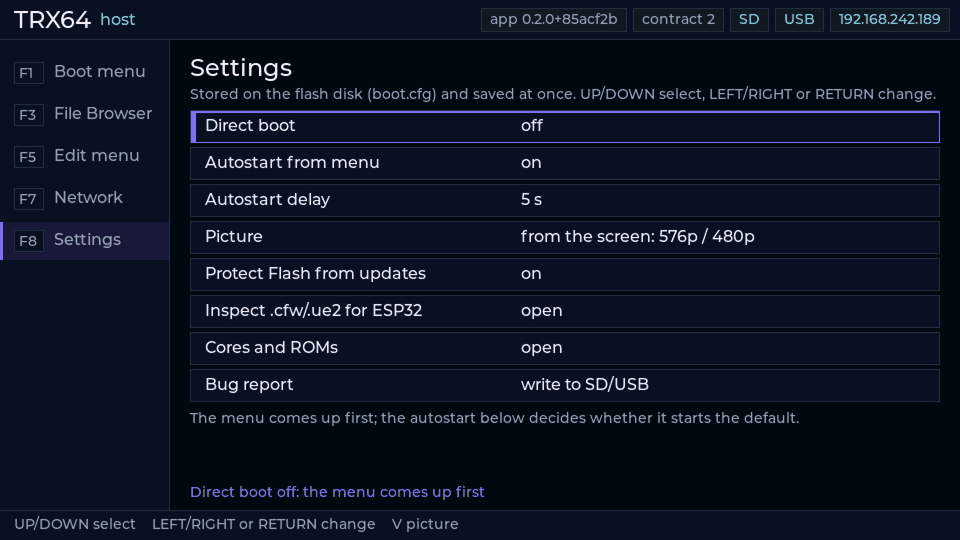
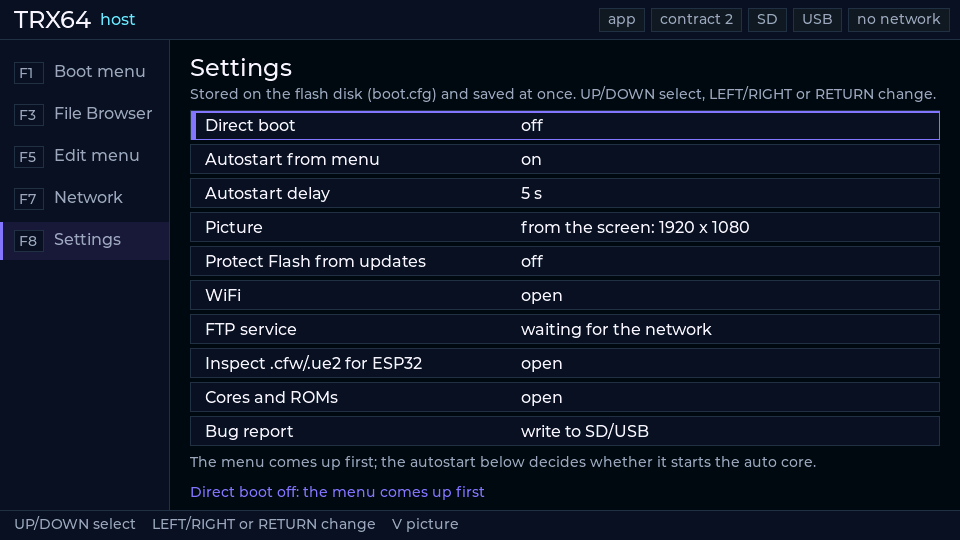
T121: manual pictures of chapters 4-9 renewed from ue2emu (update, restore, package, format, cores, compact, zip, config overlay, WiFi, picture page); captions and format page text follow the code

diff --git a/docs/manual/05-file-browser.md b/docs/manual/05-file-browser.md
@@ -191,7 +191,7 @@ as in 4.5. A `.cfw` or `.ue2` asks `Start full firmware?` first. A refused file 
 
 ![The target pick for a copy: the path line reads Copy to, the footer lists the keys of the pick](img/host-copy-pick.png)
 
-*Figure 5-4. Target pick for a copy (picture pending: shows the older footer).*
+*Figure 5-4. Target pick for a copy. The path line reads `Copy to: /USB0/firmware`. The footer does not list **RIGHT**, which also opens a folder.*
 
 5.6.4 The host writes the data to `<name>.part`, reads it back, compares the SHA-256 of both files, and renames the file.
 The note line shows `Copying <name>: <n>%    ESC cancels` and then `Reading back <name>: <n>%    ESC cancels`. A move to the same medium renames the file. A move to
@@ -246,16 +246,18 @@ than 2 TiB, or without 512-byte sectors. The note reads `cannot format <name>: <
 5.8.3 To format a medium:
 
 1. Go to the first level (path `/`). Select the medium.
-2. Press **F**. The red page `Format <name> as exFAT?` shows the size, the file system, the number of boot menu rows on the medium
-   and the result: `one exFAT partition from 4 MiB to the end`.
-3. Type the name of the medium as the list shows it (for example `USB0`). Letter case does not matter.
-4. Press **RETURN**. A wrong name shows `That is not the name of the medium. Nothing was written.`
-5. The page shows `The name is right. This is the last question.` Press **RETURN** again within 10 s. The second **RETURN**
+2. Press **F**. The red page `Format <name> as exFAT?` shows `ALL DATA ON <name> WILL BE ERASED.`, the size and the file system (`256.0 MiB  -  FAT32  'STICK'`), the number of boot menu rows on the medium
+   (`no boot menu row lives here`, or `<n> boot menu row(s) live(s) here; they show 'missing' until their files are copied back.`)
+   and the result: `Result: one exFAT partition from 4 MiB to the end. Files of 4 GiB and more fit.` It adds `Until the first write you can leave with ESC, and nothing has changed.` and
+   `To go on, type the name of the medium (<name>) and press RETURN:`.
+3. Type the name of the medium as the list shows it (for example `USB0`). Letter case does not matter. **BACKSPACE** deletes a character.
+4. Press **RETURN**. A wrong name shows `That is not the name of the medium. Nothing was written.`, an empty line `Type the name of the medium first.`
+5. The page shows `The name is right. This is the last question.` and `Press RETURN once more within <n> s to erase <name>.` (10 s). The second **RETURN**
    counts only 1 s after the first.
 
 ![The format question: the page asks to type the name of the medium; a wrong name is refused](img/host-format-ask.png)
 
-*Figure 5-5. Format, first question (picture pending: not renewed).*
+*Figure 5-5. Format, first question. The page asks to type the name of the medium; the cursor stands in the field.*
 
 ![The last format question: RETURN once more within 10 seconds erases the medium](img/host-format-armed.png)
 
@@ -265,11 +267,13 @@ than 2 TiB, or without 512-byte sectors. The note reads `cannot format <name>: <
 while you type, when you press no key for 60 s, or when you remove the medium. The note reads
 `format of <name> cancelled, nothing was written`.
 
-5.8.5 The page shows the progress (steps, bytes written) and `Do not remove the medium.` **ESC** or **RUN/STOP** cancels until the partition
+5.8.5 The page `Formatting <name>` shows the step (`Releasing the old volume`, `Clearing the old partition table`, `Writing the exFAT structures`, `Writing the partition table`, `Flushing the medium`, `Reading it back, mounting it`) with its percent and the bytes written, and `Do not remove the medium.` **ESC** or **RUN/STOP** cancels until the partition
 table is written. Then the medium is blank. When the table is written, the format cannot be stopped.
 
-5.8.6 The result page shows `<name> is formatted` with the size, the file system and the free space, or the reason for a
-refusal or failure. Press any key to return.
+5.8.6 The result page `<name> is formatted` shows the size and the file system, `The host has mounted it: <size> free, no files yet.` and the boot menu rows:
+`Boot menu: no row points here.` or `Boot menu: <n> row(s) point(s) here, 0 found. Copy the cores back and they turn ready.` A refusal or a failure shows the page `<name> was not formatted`, `Format of <name> cancelled` or `Format of <name> failed`, the reason and
+what is left: `Nothing was written. The medium is as it was.`, `The medium is blank now: no partition table, no volume.` (with `Press F in the File Browser to format it again.`) or
+`The format was written but could not be checked. Take the medium out and put it in again.` Press any key to return.
 
 5.8.7 The cluster size follows the size of the medium: 4 KiB up to 256 MiB, 32 KiB up to 32 GiB, 128 KiB above.
 
@@ -291,5 +295,9 @@ refusal or failure. Press any key to return.
 | **H** | Unpack here, next to the `.zip` |
 | **O** | Extract one file of the archive (a list: **UP**, **DOWN**, **RETURN**, **ESC**) |
 | Any other key | Cancel. The note reads `Not unpacked. Nothing was changed.` |
+
+![The page Unzip demo.zip: F, H and O, any other key cancels](img/host-unzip-page.png)
+
+*Figure 5-7. Z on `demo.zip`. The footer reads `F, H or O    any other key cancels`.*
 
 5.10.3 A bar shows `unpacking    no key stops it`. The page `Unzipped` shows the result. A failure shows `Unzip did not finish`, `Files unpacked so far are in the folder. The .zip is untouched.` Without the application the page `Cannot unzip <file>` says `Unzip is not installed.` and `Nothing was unpacked.`

diff --git a/docs/manual/08-settings.md b/docs/manual/08-settings.md
@@ -18,9 +18,9 @@ The host applies every change at once. The note line shows the result.
 | **LEFT**, **RIGHT**, **RETURN**, **SPACE** | Change the value. On the rows `WiFi`, `Inspect .cfw/.ue2 for ESP32`, `Cores and ROMs` and `Bug report` only **RIGHT**, **RETURN** and **SPACE** act. On `Picture` only **RETURN** acts: it opens the Picture page |
 | **V** | Open the Picture page (4.4.3) |
 
-![The Settings page with direct boot on: six rows, the help text of the selected row at the bottom](img/host-settings.png)
+![The Settings page with direct boot on: eight rows, the help text of the selected row at the bottom](img/host-settings.png)
 
-*Figure 8-1. F8 Settings with direct boot on.*
+*Figure 8-1. F8 Settings with direct boot on. The row `Protect Flash from updates` exists only in a build with the flash lock.*
 
 8.1.5 Rows:
 
@@ -37,7 +37,7 @@ The host applies every change at once. The note line shows the result.
 | `Cores and ROMs` | `open` | none | 8.7 |
 | `Bug report` | `write to SD/USB`, or the name of the last report file | none | 8.8 |
 
-8.1.6 The host stores the settings of 8.2 and 8.3 in `Flash:/boot.cfg` (8.9). It stores `Picture` (8.4) and `Protect Flash from updates` in its own
+8.1.6 The host stores the settings of 8.2 and 8.3 in `Flash:/boot.cfg` (8.9). It stores `Picture` (8.4), `Protect Flash from updates` and `FTP service` in its own
 settings store, `Flash:/trx/host.cfg`, not in `boot.cfg`.
 
 ![The Settings page with direct boot off: the two autostart rows show](img/host-settings-autostart.png)
@@ -85,6 +85,10 @@ possible modes are, in this order:
 | 5 | `1280 x 1024` |
 
 8.4.3 **RETURN** on the row `Picture` (or **V**) opens the page `Settings > Picture`. The first row is `Auto (<mode> from the screen)`: the host selects the best mode of the screen: `1920 x 1080`, else `1280 x 720`, else `576p / 480p`, else a PC mode (`1024 x 768` first). The other rows are the modes that the screen names, each with its refresh rate (`50.1 Hz`) and the tags `now` (the mode that is chosen) and `native`. The line under the title reads `Your screen offers <n> modes. Nothing changes until you pick one.` **UP**, **DOWN** select and apply nothing. **RETURN** uses the mode under the cursor and asks as in 8.4.8. **LEFT** or **ESC** closes the page. The row `Picture` shows the mode, or `from the screen: <mode>`.
+
+![The Picture page: Auto and three modes, 50.1 Hz, the tag now on Auto](img/host-picture-page.png)
+
+*Figure 8-2a. Settings > Picture (the same page opens with V from every view).*
 
 8.4.4 There is no choice of 50 Hz or 60 Hz. The host uses 50 Hz modes (PAL). Only when the screen names no 50 Hz mode does the host use
 the 60 Hz modes of the screen, without a message. A host that started with a `video=` line in `boot.cfg` keeps the system of that
@@ -147,7 +151,7 @@ status registers, and the firmware starts without protection.
 
 ![The result of the inspection of a firmware file without an ESP32 part](img/host-inspect-result.png)
 
-*Figure 8-3. Result for a file without an ESP32 part (the file is `plain.cfw`).*
+*Figure 8-3. Result for a file without an ESP32 part (the file is `plain.cfw`). The page is titled `ESP32 in <file>`.*
 
 8.6.3 Results:
 
@@ -179,7 +183,7 @@ there twice. It deletes the files that belong to no core.
 
 ![The page Cores and ROMs: one line per core with its ROMs and saves, then the files that belong to no core, then the doubles](img/host-cores-page.png)
 
-*Figure 8-4. Cores and ROMs. The folder `ghost` holds a save and stays. `junk.txt` belongs to no core. `/SD/roms/atari800/atarixl.rom` is an old copy of a file that a core folder holds.*
+*Figure 8-4. Cores and ROMs. The folder `ghost` holds a save and stays. `junk.txt` and `old-notes.txt` belong to no core. `/USB0/cores/roms/kernal.bin` is an old copy of a file that the folder of `vc20.cor` holds.*
 
 8.7.3 The list has up to three blocks:
 
@@ -208,9 +212,9 @@ them only when a core folder holds a copy with the same bytes (12.2.3).
 2. Press **Y**. The page asks `Really delete <n> entries? This cannot be undone. Press Y once more; any other key is No.`
 3. Press **Y**.
 
-![The first question of the delete: the three entries that go are listed, Y continues](img/host-cores-delete.png)
+![The first question of the delete: the entries that go are listed, Y continues](img/host-cores-delete.png)
 
-*Figure 8-5. First question of the delete.*
+*Figure 8-5. First question of the delete: `junk.txt`, `old-notes.txt` and the old copy `kernal.bin` go.*
 
 8.7.7 Any other key at a question cancels (`Cancelled. Nothing was deleted.`). After the delete the note reads `Deleted <n> entries
 (<size>)`, with `, some could not be deleted` when a delete failed.
@@ -249,3 +253,7 @@ it copies the system and the mode to `[Video]` in `Flash:/trx/host.cfg` and writ
 ## 8.10 WiFi
 
 8.10.1 **RETURN** on the row `WiFi` opens the WiFi page. It shows `State`, `Connected to`, `IP address` and the rows `WiFi` (radio), `Use DHCP`, `Static IP`, `Static Netmask`, `Static Gateway` and `Static DNS` (the static rows count with DHCP off). Keys: **UP**, **DOWN** select, **LEFT**, **RIGHT**, **RETURN**, **SPACE** change a row, **S** list of access points, **M** enter an access point, **L** connect to the last access point, **D** disconnect, **F** **F** forget the stored access points, **ESC** back.
+
+![The WiFi page: State, Connected to, IP address, then the radio, DHCP and the static addresses; the footer lists the keys](img/host-wifi-page.png)
+
+*Figure 8-6. F8 WiFi. The radio is on, DHCP is on, the board has no link yet.*

diff --git a/docs/manual/09-update-restore-package.md b/docs/manual/09-update-restore-package.md
@@ -97,9 +97,9 @@ file says which. The host compares each part with the flash and writes only the 
 | Not written again | `Not written again, the flash holds it already: <part>.` Only when the file holds a host and a host application and one of them is the same as in the flash |
 | Flash chip | `Flash chip: <chip>. Nothing has been written yet.` |
 
-![Question 1 of an update of the host and the host app: red frame, version, the effect on the cores, the flash chip](img/host-update-ask1.png)
+![Question 1 of an update of the host app: red frame, version, the effect on the cores, the flash chip](img/host-update-ask1.png)
 
-*Figure 9-3. Question 1 of an update of the host and the host app. The page names the effect on the cores. The footer holds the keys of the page.*
+*Figure 9-3. Question 1 of an update of the host app. The page names the effect on the cores. The footer holds the keys of the page.* The pictures of the update and the restore were made in the emulator: its flash chip shows as `Infineon S25FL128L`, a board shows `Winbond W25Q128`.
 
 ![Question 2 of the update: Last question, the erase sentence, no key stops the write, the footer counts the seconds](img/host-update-ask2.png)
 
@@ -116,9 +116,9 @@ file says which. The host compares each part with the flash and writes only the 
 | `the update file does not come from TRX` | The file has another origin |
 | `The app in this package needs host interface <n>; the running host provides <m>.` (and similar) | The host application and the host do not fit. The page adds `This package does not fit the host it would run on.` and `Use the update that matches this system.` |
 
-![Refusal of an update that does not fit: amber frame, the reason, Nothing was written](img/host-update-refuse.png)
+![Refusal of an update file that is cut: amber frame, the reason, Nothing was written](img/host-update-refuse.png)
 
-*Figure 9-5. Refusal of a package with a wrong host interface.*
+*Figure 9-5. Refusal of an update file that is cut off (`cut.txu`): `The update file is damaged or incomplete.` A package with a wrong host interface shows the amber page the same way (9.3.4).*
 
 9.3.5 The lines of question 1 for the cores:
 
@@ -133,16 +133,16 @@ file says which. The host compares each part with the flash and writes only the 
 9.3.6 The write page shows the phases (`Check the file`, `Write the host app`, `Write the host`, `Read back and compare`) with `done` for those that are over (`...` for the one that runs), the step as a line below (`Erasing sector <n> of <m>`, `Programming sector <n> of <m>`) and one
 bar with its percent. The title is `Updating <what>`. The footer reads `No key stops this    do not switch the power off`.
 
-![The write page of an update: the phases, the sector that is programmed, 43 %](img/host-update-progress.png)
+![The write page of an update: the phases, the sector that is programmed, 37 %](img/host-update-progress.png)
 
-*Figure 9-5a. The write page. The host app is written; the host is being programmed.*
+*Figure 9-5a. The write page. The host app is written (sector 198 of 265); the host is `not needed, unchanged`.*
 
 9.3.7 The result page `Update written` shows `Written and verified: <part>.`, then, when it applies, `Not written again, the flash held it already: <part>.` and (only when the host key changes) the effect on the cores: `<n> partial core(s) need(s) a rebuild for the new host. Large cores are not affected.` or `No core on the media needs a rebuild.` Then it shows the countdown `Restarting in <n> s to start the new version.` (9.2.6) and
 `Took <n> s. Boot menu, cores and settings were not touched.`
 
-![The result page of an update: Written and verified, switch the power off and on](img/host-update-done.png)
+![The result page of an update: Written and verified, the restart countdown](img/host-update-done.png)
 
-*Figure 9-6. Result of an update of the host and the host app.*
+*Figure 9-6. Result of an update of the host app. The page counts down `Restarting in <n> s to start the new version.`*
 
 ## 9.4 Restore (R)
 
@@ -178,7 +178,7 @@ vendor.
 
 ![Question 1 of a restore: This replaces the running firmware, the name and sizes, the way back to MultiCore](img/host-restore-ask1.png)
 
-*Figure 9-6a. Question 1 of a restore of `Commodore 1.1.0`.*
+*Figure 9-6a. Question 1 of a restore of `Commodore 64 Ultimate 1.1.0`.* The flash chip line shows the emulator's chip.
 
 Question 1 shows `Restore <name>?` (for an official file the name is vendor, name and version, for example `Restore Gideon Ultimate firmware 3.14?`; for a backup the name of the `.cor`, else `the backup of <date>`), `This replaces the running firmware.`, the name and the sizes, `Official release. The file is complete and intact.` (or `The backup is complete and intact.`),
 `To come back to MultiCore, run the MultiCore update file from that firmware's update menu.`, `Your cores and settings stay on the flash drive.` and

diff --git a/docs/manual/04-boot-menu.md b/docs/manual/04-boot-menu.md
@@ -112,6 +112,10 @@ release. Remove the old entry (6.2).
 
 4.4.3 **V** opens the Picture page (`Settings > Picture`, 8.4) from every view. The page lists `Auto` and the modes that the screen names, each with its refresh rate and the tags `now` and `native`. Browsing applies nothing. **RETURN** on a mode puts it up and starts the question `Keep this picture?`: **RETURN** or any key keeps the mode and stores it as the default, **LEFT** or **ESC** goes back at once, 8 s without a key goes back (8.4.8). **LEFT** or **ESC** closes the page.
 
+![The Picture page: Auto and the modes that the screen names, each with its refresh rate and the tag now](img/host-picture-page.png)
+
+*Figure 4-1a. The Picture page (V). The screen of this picture offers three modes.*
+
 ## 4.5 Start an entry
 
 4.5.1 To start an entry:
@@ -256,7 +260,7 @@ the mode and never cut: **576p** (720 x 576), **480p** (640 x 480) and **800 x 6
 
 ![The boot menu at 800 x 600](img/host-compact-800-menu.png)
 
-*Figure 4-4. F1 Boot menu at 800 x 600. The list holds six entries; the first name is cut with dots.*
+*Figure 4-4. F1 Boot menu at 800 x 600 with three entries. The footer has two lines.*
 
 ![The File Browser at 800 x 600](img/host-compact-800-browser.png)
 
@@ -266,9 +270,9 @@ the mode and never cut: **576p** (720 x 576), **480p** (640 x 480) and **800 x 6
 
 *Figure 4-6. F1 Boot menu at 480p. The footer wraps at the key `any key stops the countdown`.*
 
-![The Settings page at 576p: the names in the rows are cut with dots](img/host-compact-576-settings.png)
+![The Settings page at 576p: the compact layout with the short value of the Picture row](img/host-compact-576-settings.png)
 
-*Figure 4-7. F8 Settings at 576p (720 x 576). A name or a value that does not fit ends in dots.*
+*Figure 4-7. F8 Settings at 576p (720 x 576). The value of `Picture` is the short form `screen: 576p / 480p`. A name or a value that does not fit ends in dots.*
 
 ## 4.11 Configs of a core
 
@@ -284,5 +288,9 @@ the mode and never cut: **576p** (720 x 576), **480p** (640 x 480) and **800 x 6
 | **R** | Rename the config |
 | **DEL**, **DEL** | Delete the config file |
 | **LEFT**, **ESC** | Close the list |
+
+![The list of configs of the VIC-20 entry: Plain start and three configs, the footer with the keys of a config](img/host-config-overlay.png)
+
+*Figure 4-8. RIGHT on the VIC-20 entry opens its configs. The second row is selected: the footer shows D, R and DEL.*
 
 4.11.3 The Edit menu shows the auto config (6.1.3) and sets it with **LEFT** and **RIGHT** (6.2).
